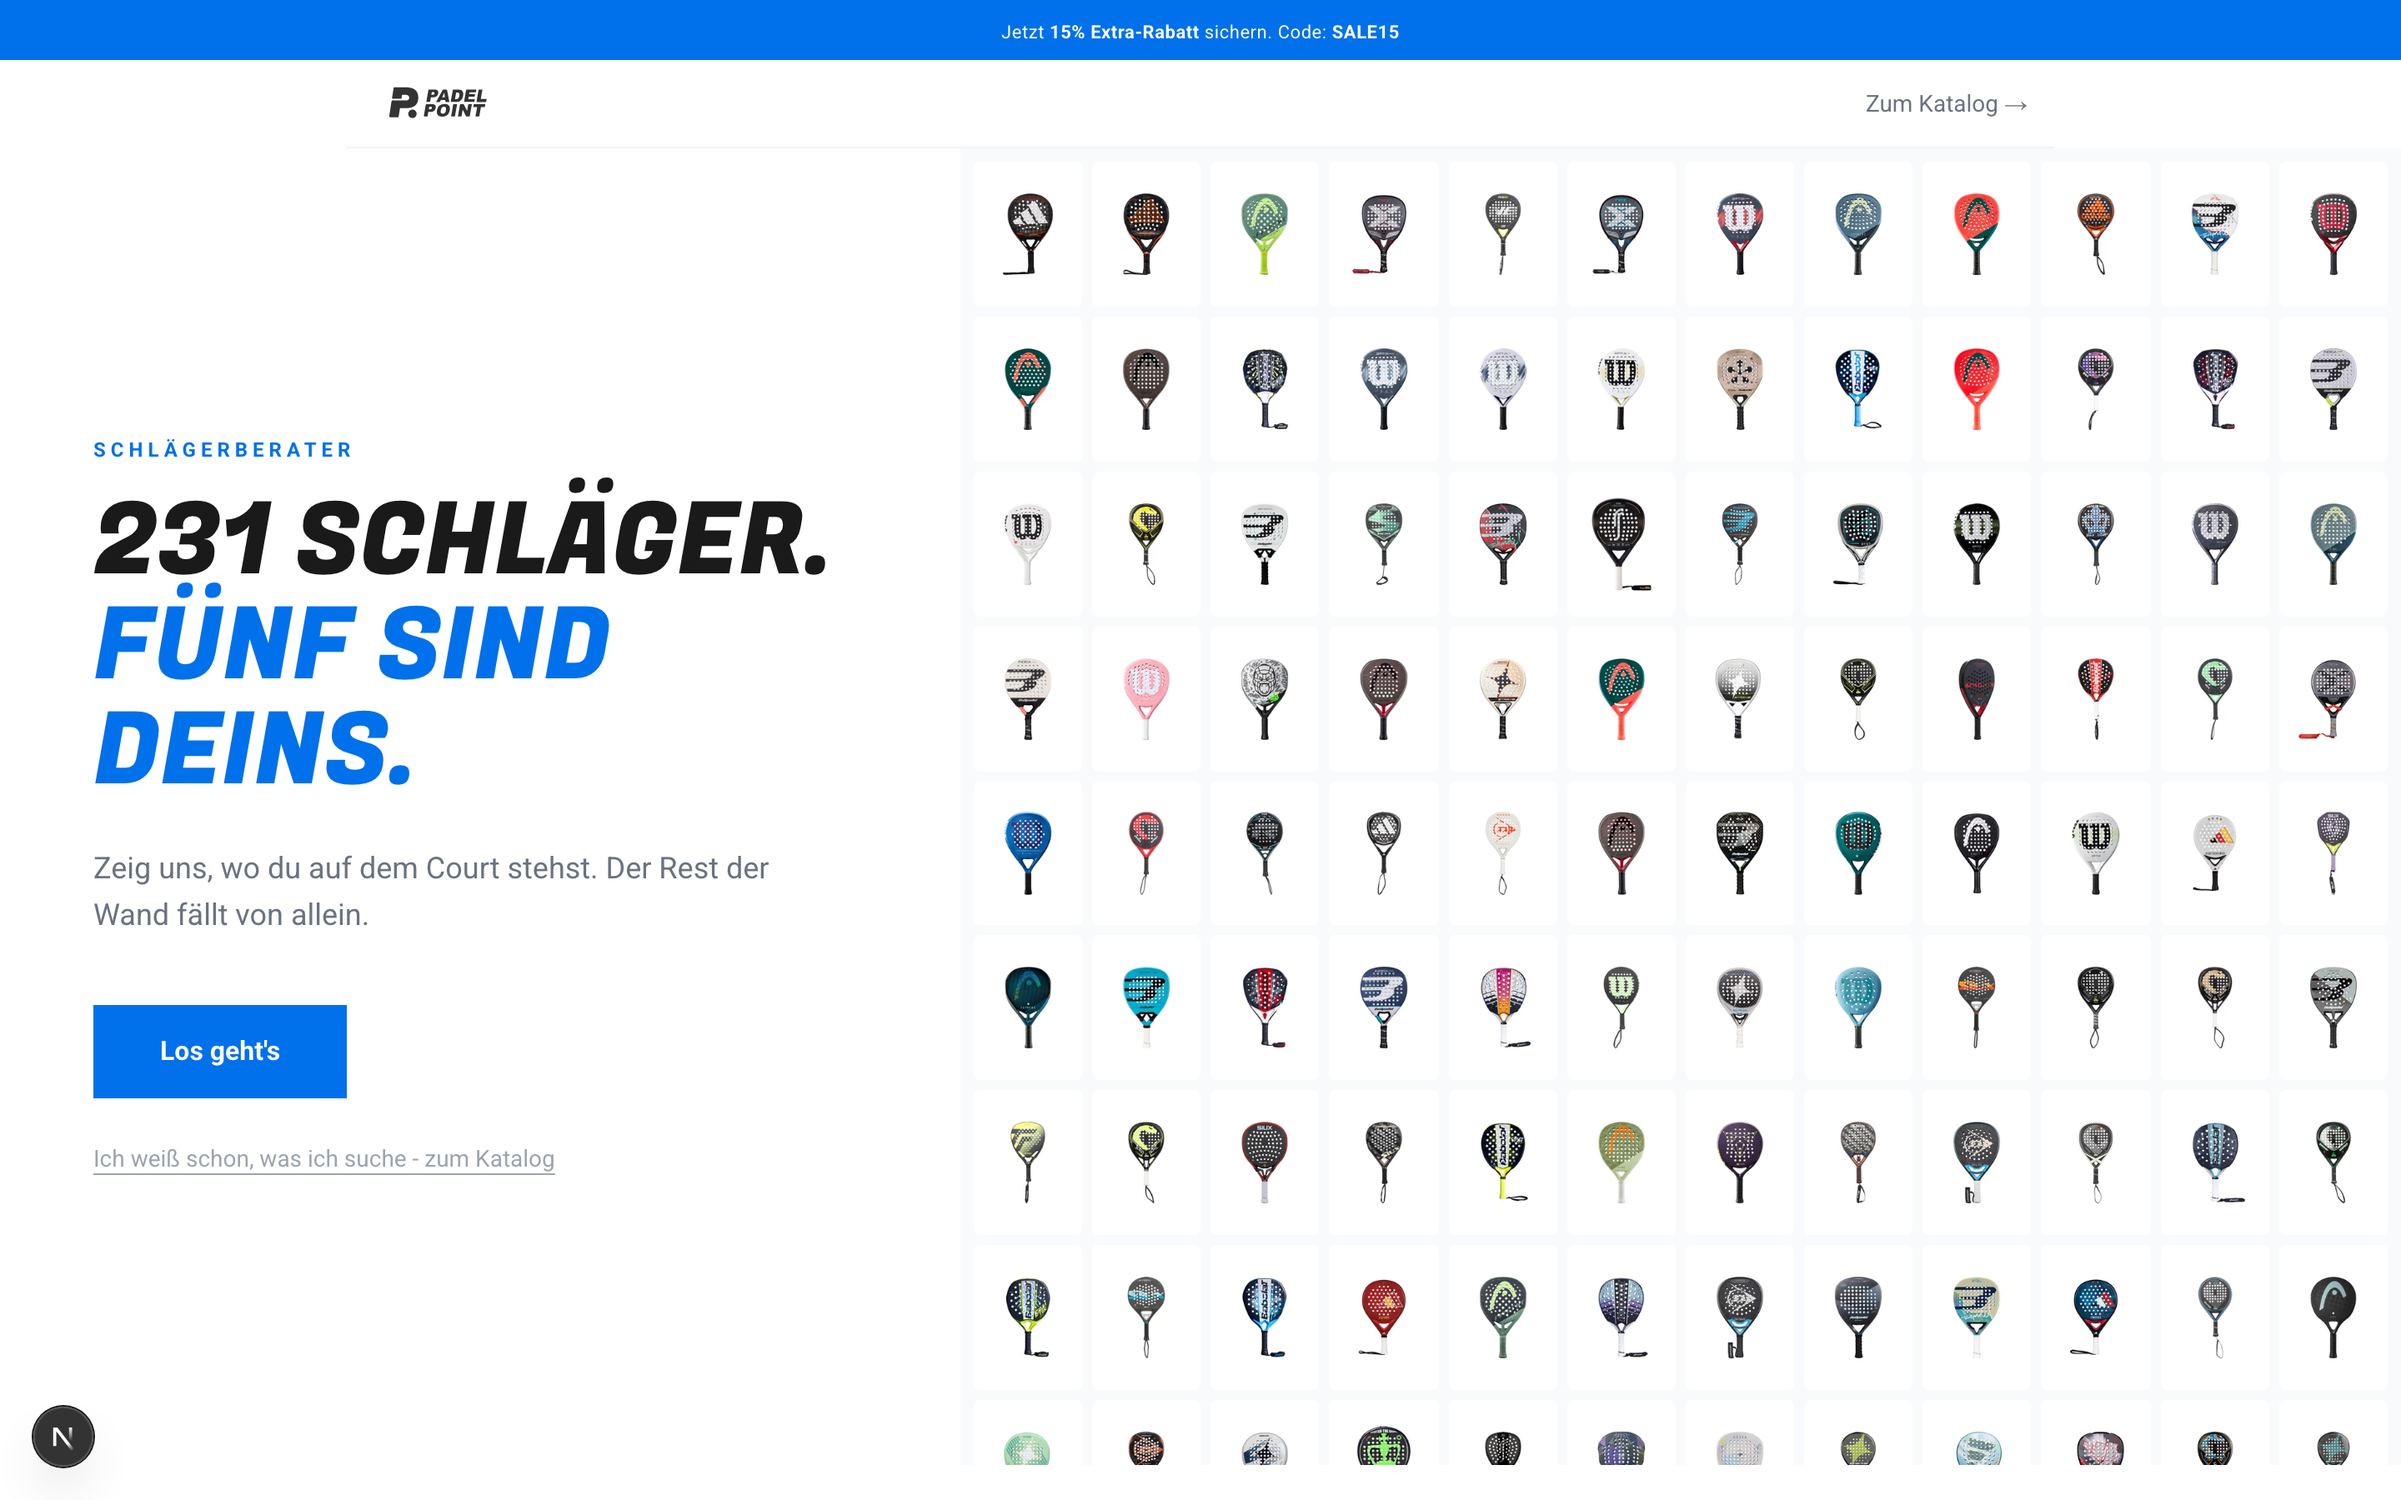
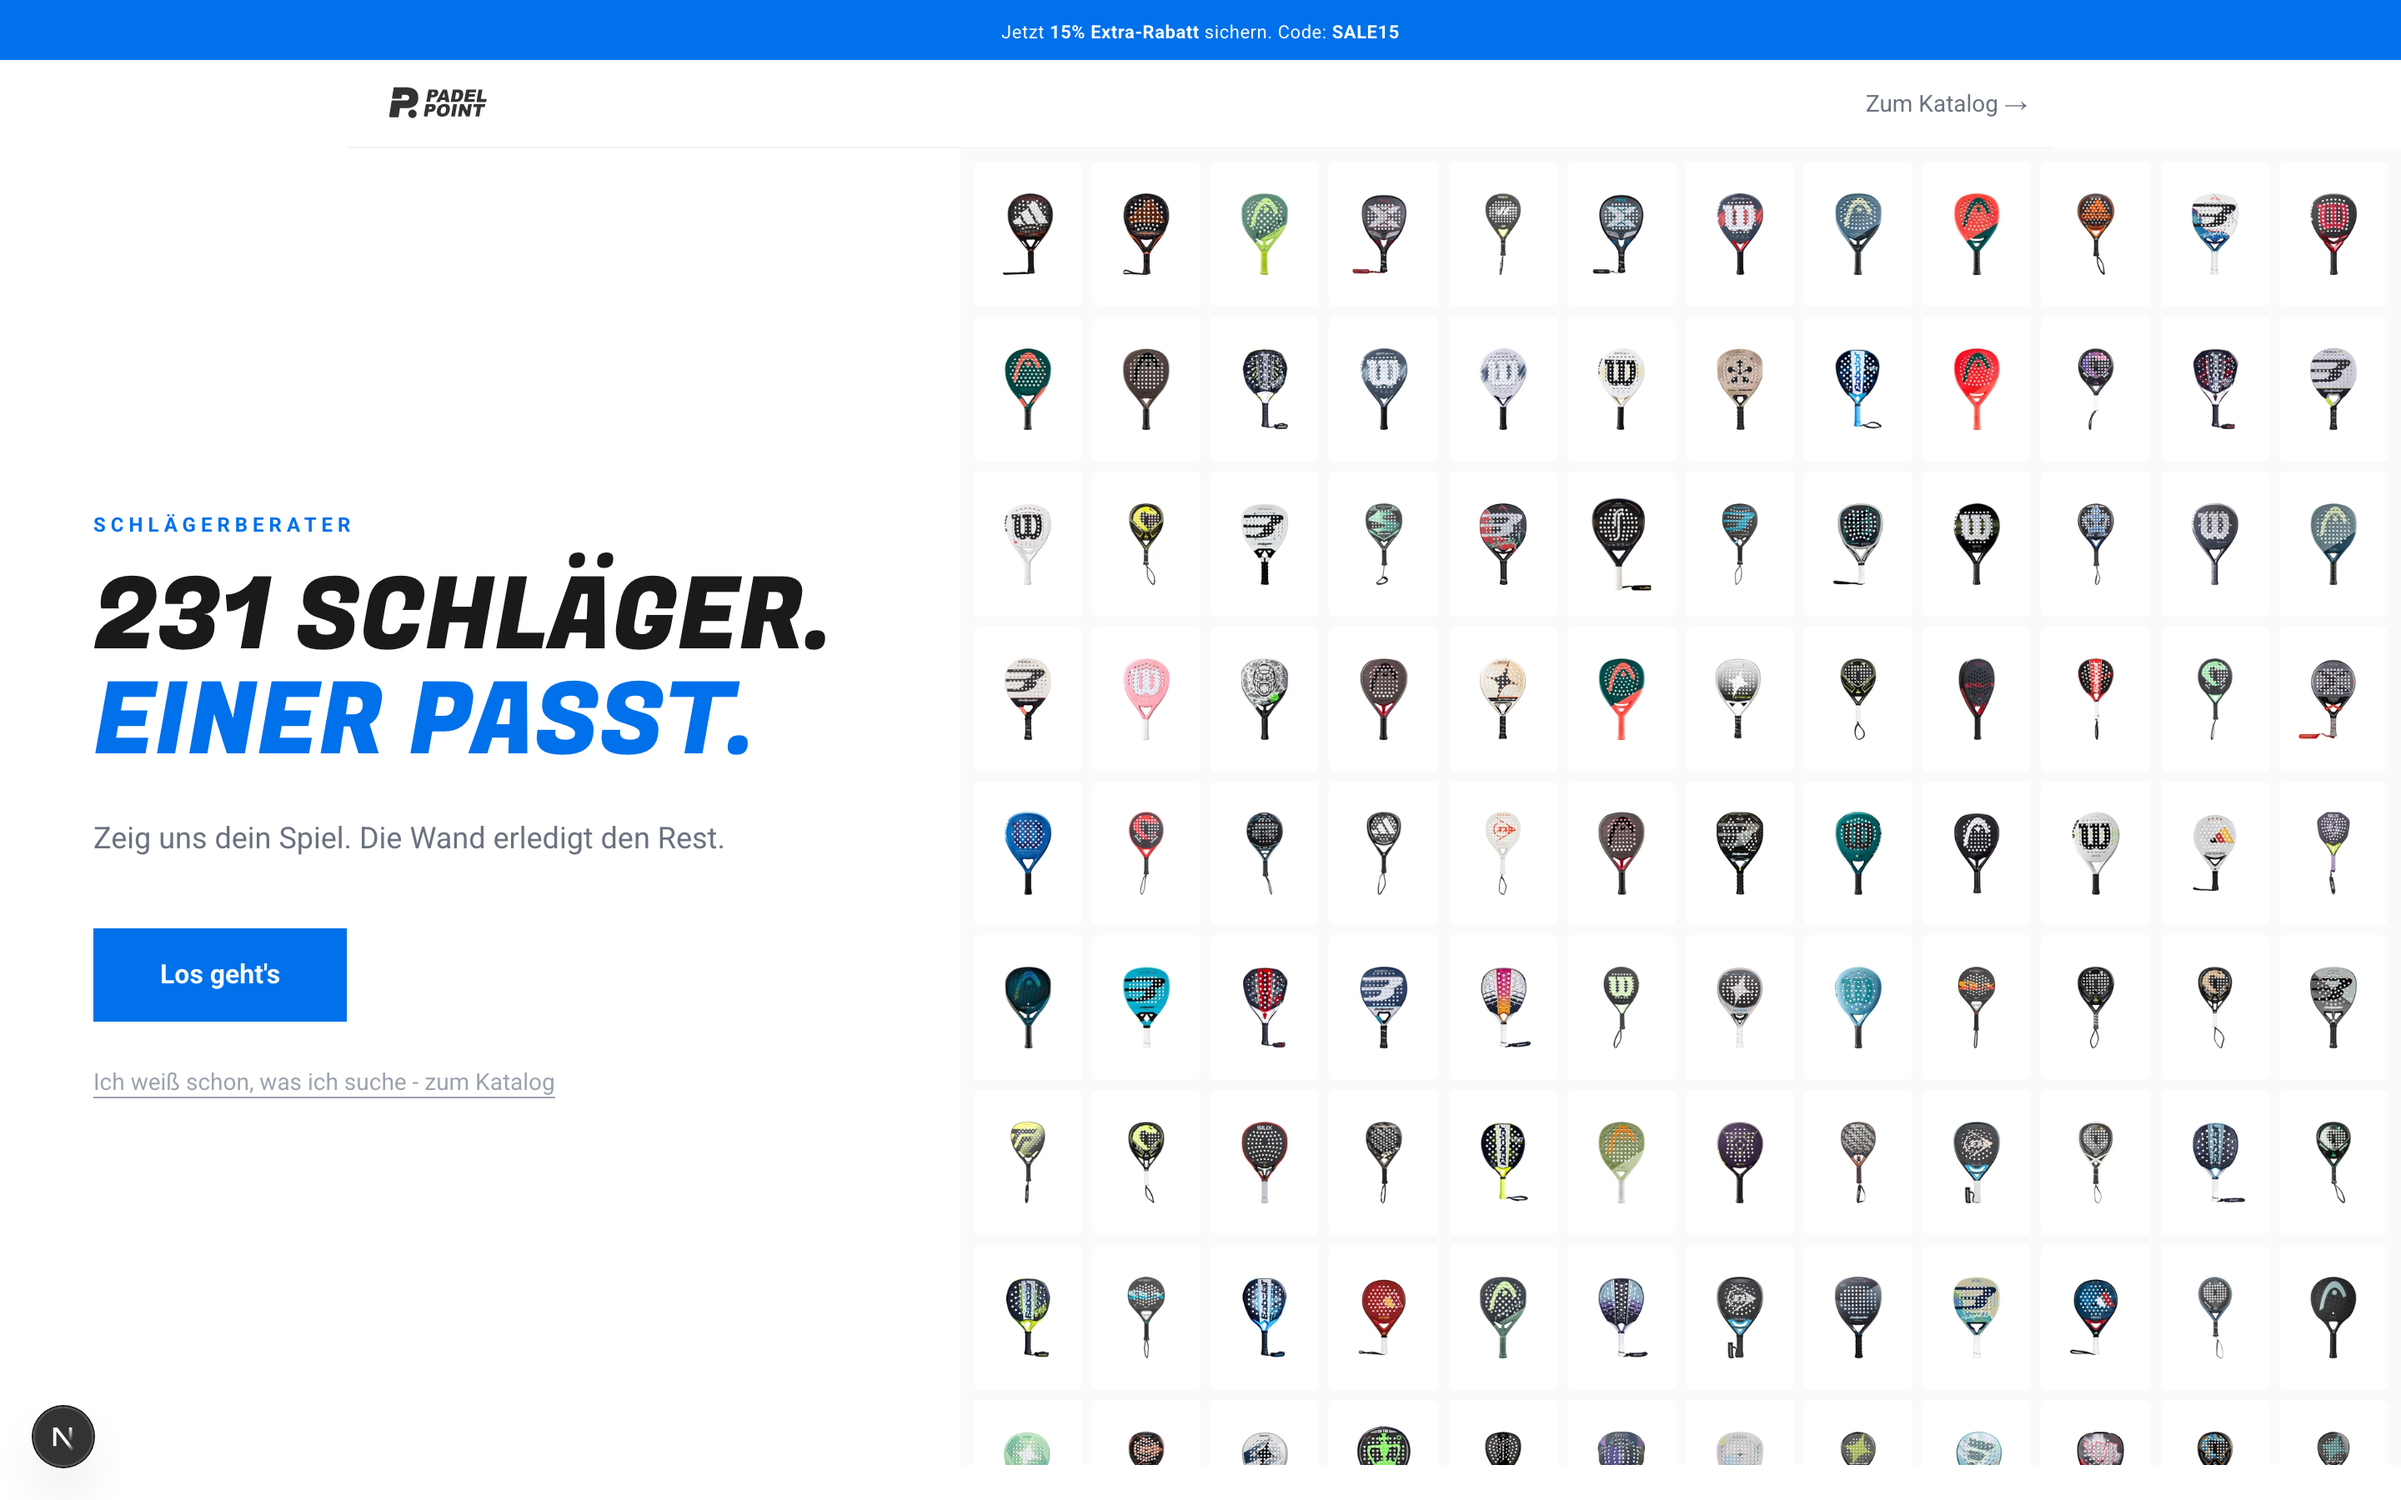
Wording: intro line as digital sibling of approved retail tagline
'231 Schläger. Einer passt.' inherits the freigegebene Store-Line
'2.000 Schläger. Einer passt.' (tone-of-voice.md Tagline-Bibliothek),
with the live count from the assortment.

Claude-Session: https://claude.ai/code/session_01FUvTQ9mp3PwiJyiyCUxWyv

Changed region(s): [[0.0312, 0.28, 0.3438, 0.5289], [0.0312, 0.5289, 0.3125, 0.7778]]

diff --git a/src/components/FinderWizard.tsx b/src/components/FinderWizard.tsx
@@ -67,10 +67,10 @@ export function FinderWizard() {
             </p>
             <h1 className="font-statement text-5xl md:text-6xl text-pp-dark uppercase leading-[1.05] mb-6">
               {total > 0 ? total : "Alle"} Schläger.<br />
-              <span className="text-pp-blue">Fünf sind deins.</span>
+              <span className="text-pp-blue">Einer passt.</span>
             </h1>
             <p className="text-base md:text-lg text-pp-gray-500 mb-10 max-w-md">
-              Zeig uns, wo du auf dem Court stehst. Der Rest der Wand fällt von allein.
+              Zeig uns dein Spiel. Die Wand erledigt den Rest.
             </p>
             <button
               onClick={() => setStage("position")}
